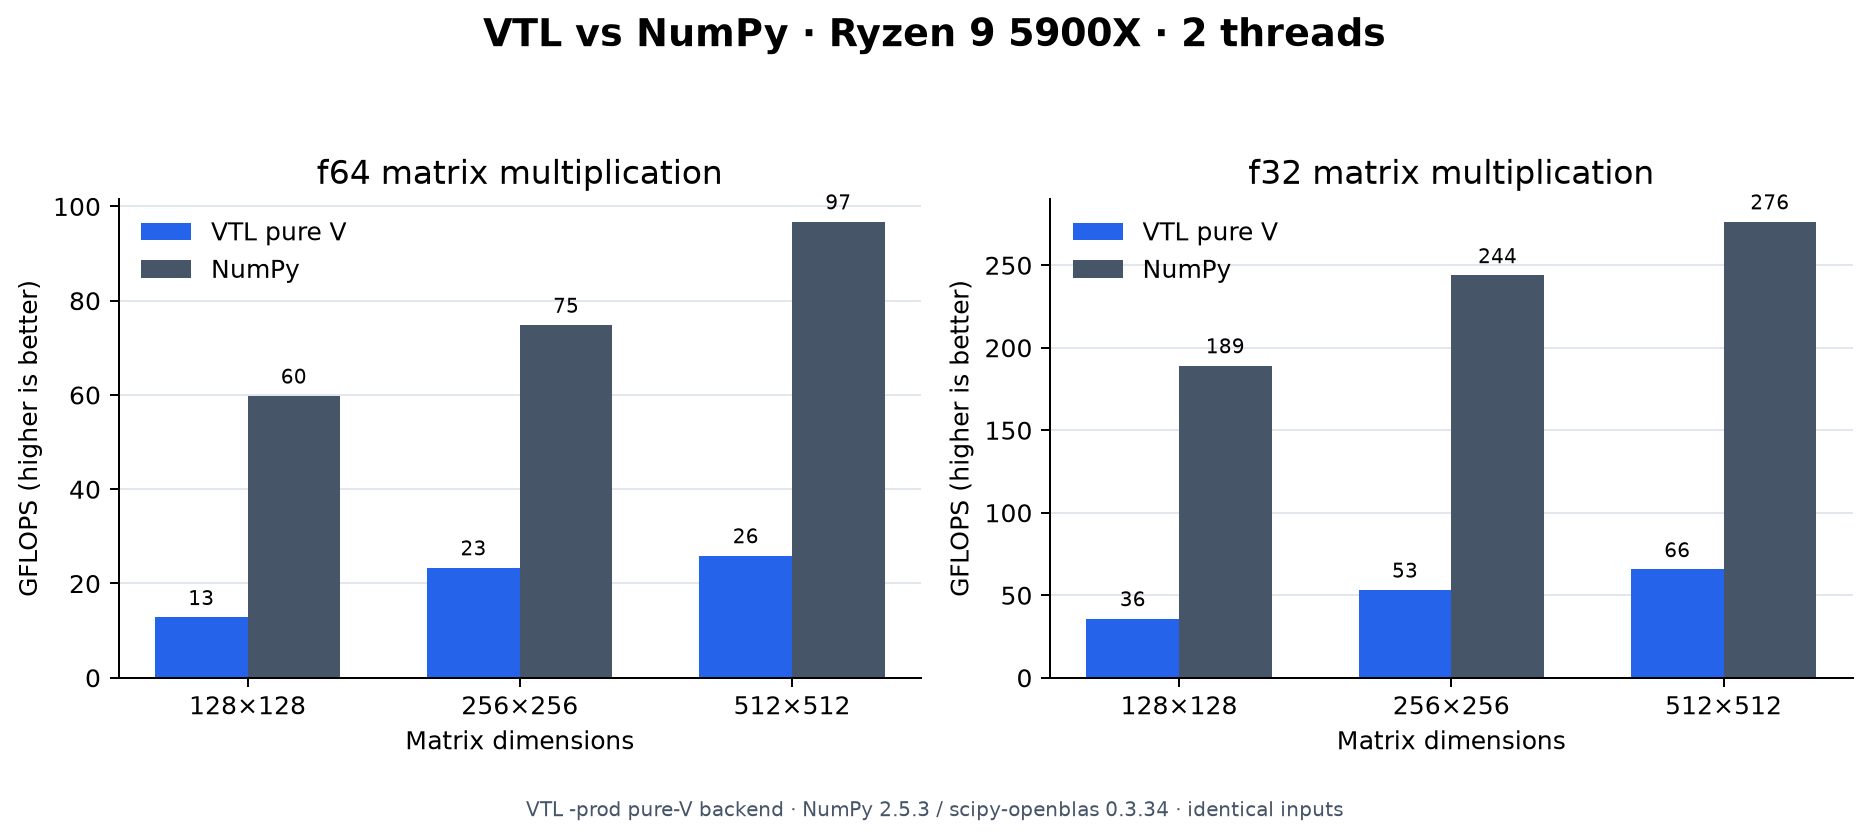
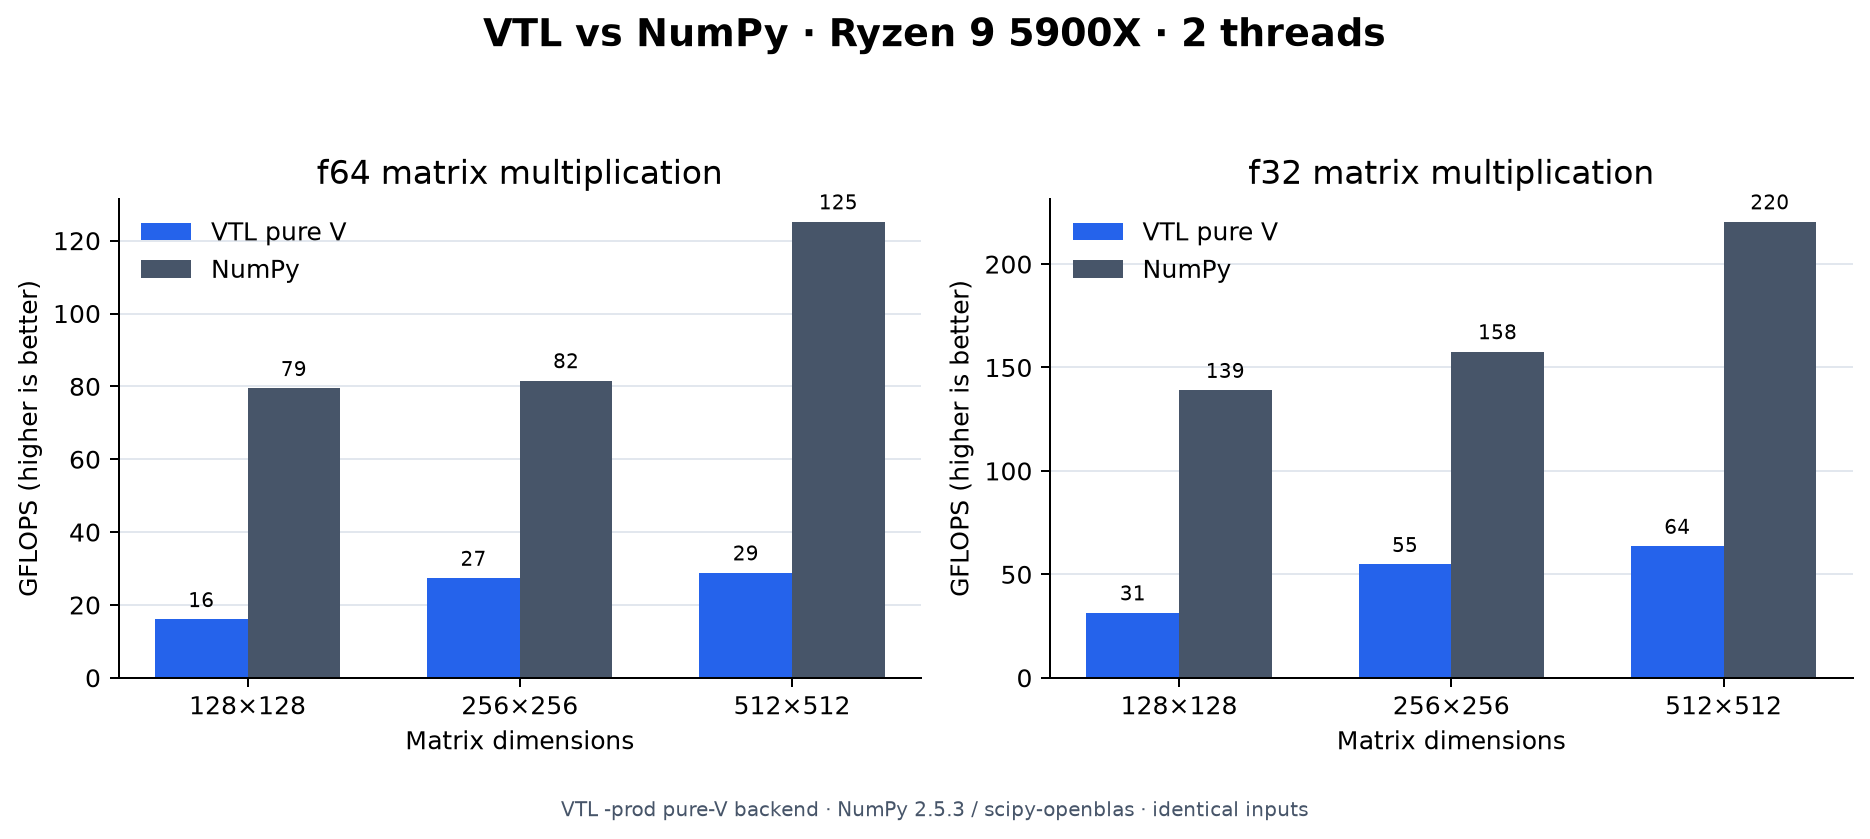
docs: refresh local NumPy matmul benchmark (#444)

diff --git a/benchmarks/vs_numpy/plot_local_matmul_results.py b/benchmarks/vs_numpy/plot_local_matmul_results.py
@@ -13,12 +13,12 @@ OUTPUT.mkdir(parents=True, exist_ok=True)
 sizes = [128, 256, 512]
 results = {
     "f64": {
-        "VTL pure V": [12.811, 23.364, 25.924],
-        "NumPy": [59.799, 74.822, 96.765],
+        "VTL pure V": [16.020, 27.363, 28.837],
+        "NumPy": [79.452, 81.609, 125.214],
     },
     "f32": {
-        "VTL pure V": [35.885, 53.213, 65.613],
-        "NumPy": [189.172, 243.789, 276.393],
+        "VTL pure V": [31.468, 54.813, 63.628],
+        "NumPy": [139.001, 157.691, 220.492],
     },
 }
 
@@ -54,7 +54,7 @@ fig.suptitle("VTL vs NumPy · Ryzen 9 5900X · 2 threads", fontsize=15, weight="
 fig.text(
     0.5,
     0.015,
-    "VTL -prod pure-V backend · NumPy 2.5.3 / scipy-openblas 0.3.34 · identical inputs",
+    "VTL -prod pure-V backend · NumPy 2.5.3 / scipy-openblas · identical inputs",
     ha="center",
     color="#475569",
     fontsize=8,

diff --git a/benchmarks/vs_numpy/README.md b/benchmarks/vs_numpy/README.md
@@ -174,17 +174,20 @@ including result allocation. Higher GFLOPS is better.
 
 | dtype | size | VTL GFLOPS | NumPy GFLOPS | NumPy / VTL |
 | --- | ---: | ---: | ---: | ---: |
-| f64 | 128×128 | 12.81 | 59.80 | 4.7× |
-| f64 | 256×256 | 23.36 | 74.82 | 3.2× |
-| f64 | 512×512 | 25.92 | 96.77 | 3.7× |
-| f32 | 128×128 | 35.89 | 189.17 | 5.3× |
-| f32 | 256×256 | 53.21 | 243.79 | 4.6× |
-| f32 | 512×512 | 65.61 | 276.39 | 4.2× |
+| f64 | 128×128 | 16.02 | 79.45 | 5.0× |
+| f64 | 256×256 | 27.36 | 81.61 | 3.0× |
+| f64 | 512×512 | 28.84 | 125.21 | 4.3× |
+| f32 | 128×128 | 31.47 | 139.00 | 4.4× |
+| f32 | 256×256 | 54.81 | 157.69 | 2.9× |
+| f32 | 512×512 | 63.63 | 220.49 | 3.5× |
 
 ![VTL and NumPy matmul performance](../../docs/assets/matmul-ryzen-5900x.png)
 
-At 512×512, the measured f32 times were 4.091 ms for VTL and 0.971 ms for
-NumPy. Regenerate the checked-in chart from these measured values with
+At 512×512, the measured times were 9.309 ms for VTL f64 and 2.144 ms for
+NumPy, and 4.219 ms for VTL f32 and 1.217 ms for NumPy. The system CBLAS
+backend measured 35.127 ms (f64) and 34.619 ms (f32) at 512×512, showing that
+this host's generic CBLAS is not a useful acceleration backend. Regenerate the
+checked-in chart from the pure-V and NumPy measurements with
 `uv run --with matplotlib python ./vtl/benchmarks/vs_numpy/plot_local_matmul_results.py`
 from `~/.vmodules`. These results show the current CPU GEMM optimization gap;
 they do not establish general performance across hardware or workloads. The
